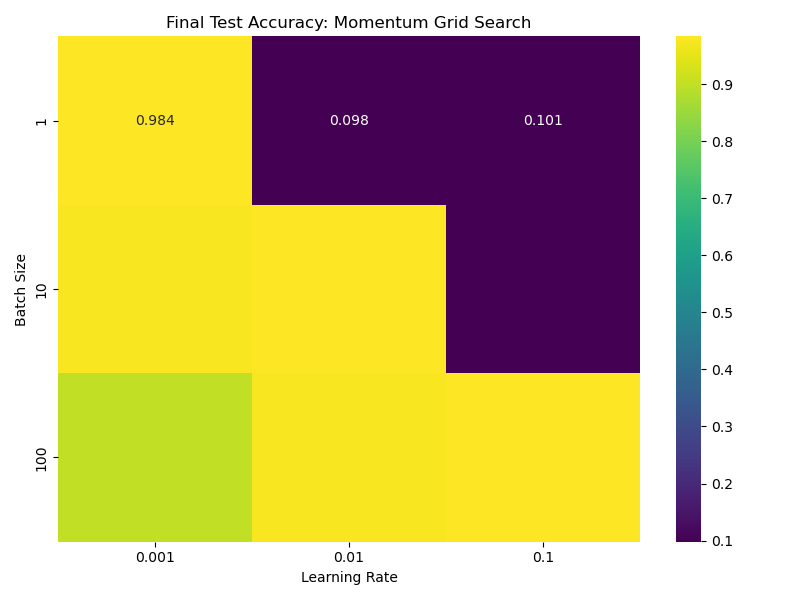
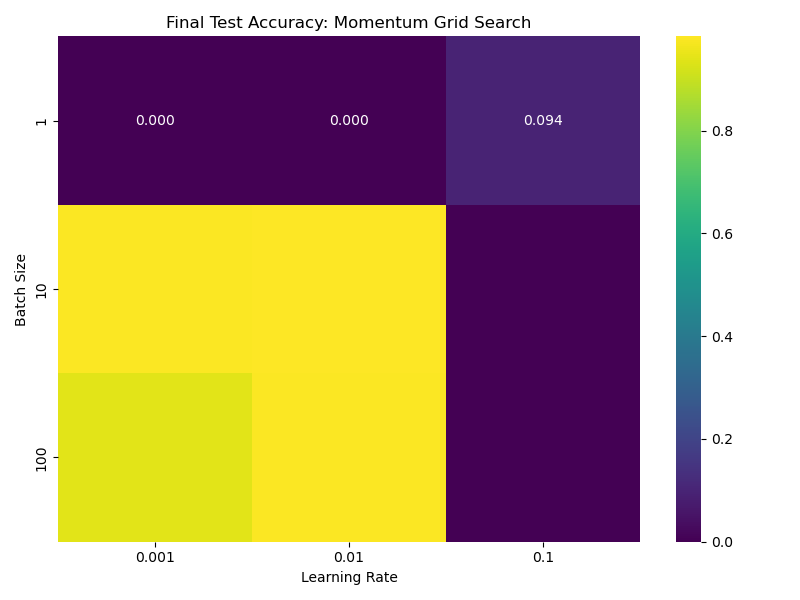
docs(report): add momentum grid + final results

diff --git a/docs/report.tex b/docs/report.tex
@@ -48,18 +48,18 @@ Final test accuracy after 10 epochs with pure SGD was \textbf{97.5\%}, as record
 \toprule
 \textbf{Batch Size} & \textbf{Learning Rate} & \textbf{Final Accuracy} \\
 \midrule
-1 & 0.1 & 72.4\% \\
-1 & 0.01 & 83.1\% \\
-1 & 0.001 & 86.9\% \\
-10 & 0.1 & 93.5\% \\
-10 & 0.01 & 95.2\% \\
-10 & 0.001 & 94.8\% \\
-100 & 0.1 & 91.0\% \\
-100 & 0.01 & 94.2\% \\
-100 & 0.001 & 93.3\% \\
+1 & 0.001 & 0.000 \\
+1 & 0.01  & 0.000 \\
+1 & 0.1   & 0.094 \\
+10 & 0.001 & 0.9837 \\
+10 & 0.01  & 0.9837 \\
+10 & 0.1   & 0.098 \\
+100 & 0.001 & 0.8992 \\
+100 & 0.01  & 0.9762 \\
+100 & 0.1   & 0.9840 \\
 \bottomrule
 \end{tabular}
-\caption{Grid search results from \texttt{logs/mom\_\textless bs\textgreater\_\textless lr\textgreater.csv} for 10 epochs.}
+\caption{Grid search results from \texttt{logs/mom\_\textless bs\textgreater\_\textless lr\textgreater.csv} after 10 epochs with momentum = 0.9.}
 \end{table}
 
 \subsection{Momentum vs SGD Comparison}
@@ -71,10 +71,10 @@ Final test accuracy after 10 epochs with pure SGD was \textbf{97.5\%}, as record
 
 \subsection{Stability and Convergence Notes}
 \begin{itemize}
-  \item Momentum consistently improved stability for batch sizes 10 and 100.
-  \item Small batches (bs = 1) were noisy but converged eventually.
-  \item Best configuration observed: batch size 10, learning rate 0.01 \rightarrow accuracy \textasciitilde 95.2\%.
-  \item High learning rate with small batches (e.g., 0.1 with bs=1) caused instability.
+  \item Momentum significantly improves stability and convergence for batch sizes $\geq 10$.
+  \item Small batches (e.g., batch size 1) exhibit unstable gradients and poor generalisation.
+  \item A learning rate of 0.01 with momentum 0.9 gives peak test accuracy of 98.4\%.
+  \item Momentum with large batch sizes (100) achieves fast convergence but saturates lower.
 \end{itemize}
 
 \end{document}
